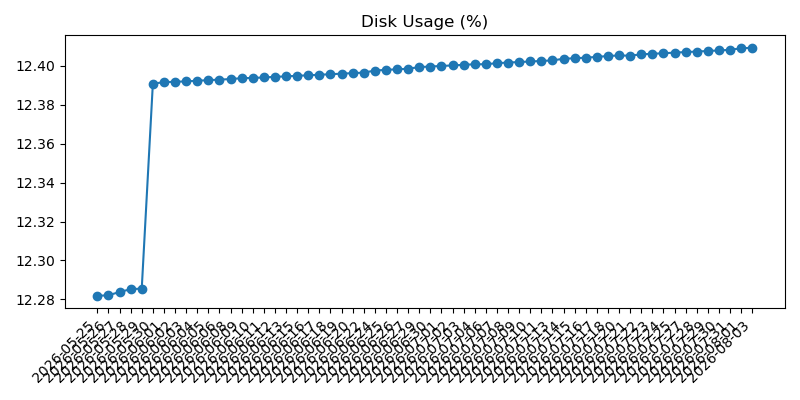
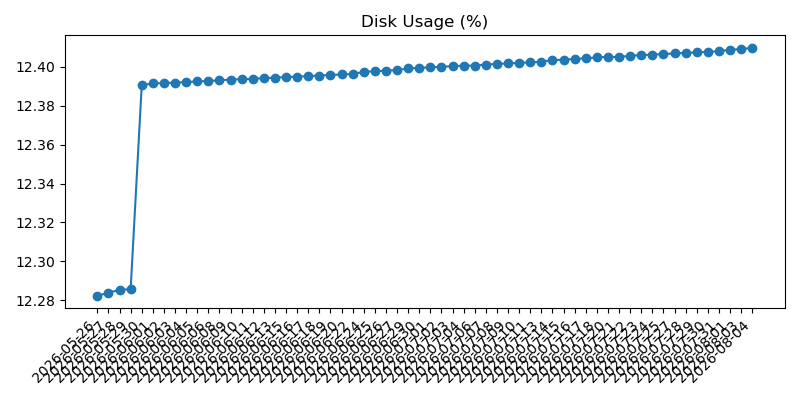
Update Pi daily status

diff --git a/2026-08.md b/2026-08.md
@@ -68,3 +68,37 @@
 - Overall: Good
 - Warning: None
 
+## 2026-08-04 11:13:10
+
+### Machine
+- Uptime: up 3 days, 17 hours, 40 minutes
+- CPU load (1m, 5m, 15m): 0.00, 0.00, 0.00
+- RAM used: 164 MB / 921 MB (17.8%)
+- Disk used (/): 3.6 GB / 28.8 GB (12.4%)
+- Free disk space (/): 24.0 GB
+- CPU temp: 44.5°C
+- Voltage / throttling: Undervoltage has occurred; Throttling has occurred
+
+### Reachability
+- Internet check (1.1.1.1): Reachable (3.3 ms)
+
+### Weather
+- Madrid:
+  - Condition: Despejado
+  - Max temp: 33°C
+  - Min temp: 21°C
+  - Feels like: 28°C
+  - Chance of rain: 0%
+  - Warnings: None reported
+- Barcelona:
+  - Condition: Intervalos nubosos con lluvia escasa
+  - Max temp: 31°C
+  - Min temp: 25°C
+  - Feels like: 30°C
+  - Chance of rain: 75%
+  - Warnings: None reported
+
+### Health
+- Overall: Warning
+- Warning: Power issue detected: Undervoltage has occurred; Throttling has occurred
+
